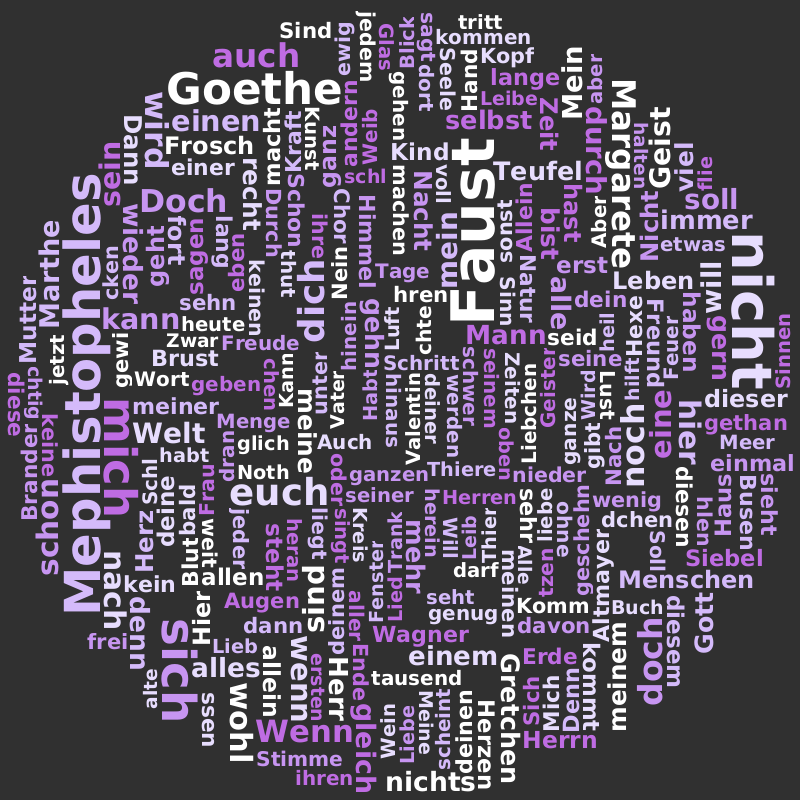
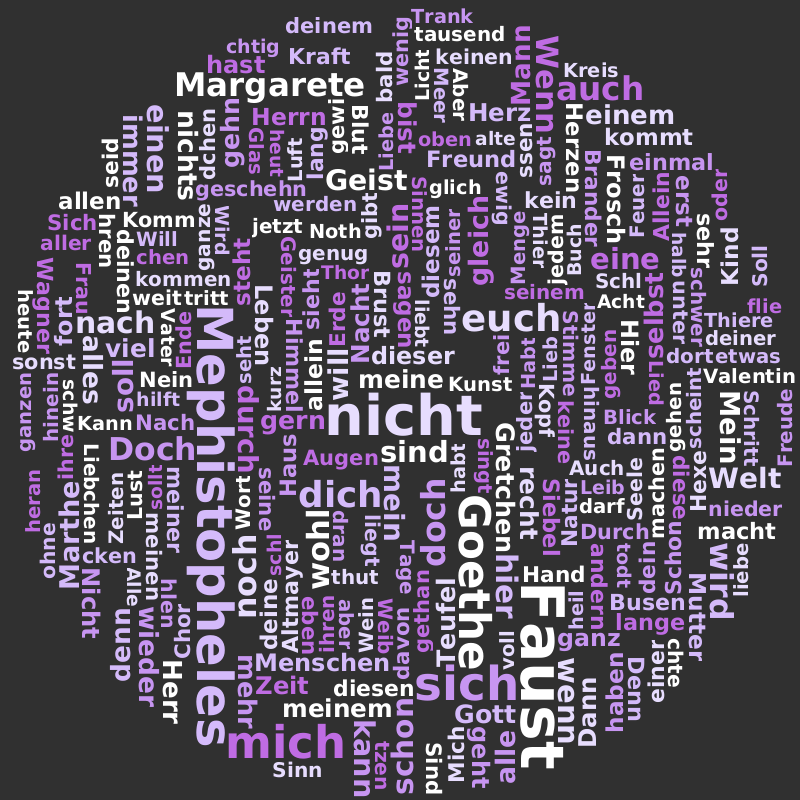
Wip: Batch

diff --git a/LambdaTagCloud/src/main/java/de/hs_mannheim/informatik/bdea/gruppe2/LambdaTagCloud/service/BatchService.java b/LambdaTagCloud/src/main/java/de/hs_mannheim/informatik/bdea/gruppe2/LambdaTagCloud/service/BatchService.java
@@ -27,16 +27,6 @@ public class BatchService {
     private final TagCloudService tagCloudService;
     private final SparkSession sparkSession;
 
-    public double getIdf(int numberOfDocuments, int documentFrequency) {
-        // Add + 1 because Log(1) is 0. This is called inverse document frequency
-        // smooth.
-        return Math.log((numberOfDocuments) / (documentFrequency)) + 1;
-    }
-
-    public int getTfIdf(int numberOfDocuments, int documentFrequency, int termFrequency) {
-        return (int) Math.round(termFrequency * getIdf(numberOfDocuments, documentFrequency));
-    }
-
     public BatchService(WordRepository wordRepository, FileService fileService, TagCloudService tagCloudService) {
         this.wordRepository = wordRepository;
         this.fileService = fileService;
@@ -123,7 +113,9 @@ public class BatchService {
 
     public void calculateAllDocuments() throws IOException {
         for(File file : this.fileService.getAllDocuments()) {
-                this.runTfIdfJob(file.getName().replace(".txt", ""));
+                String fileName = file.getName().replace(".txt", "");
+                List<Tuple2<String,Double>> tfIdfList = this.runTfIdfJob(fileName);
+                this.tagCloudService.createTagCloud(fileName,tfIdfList);
         }
     }
 
